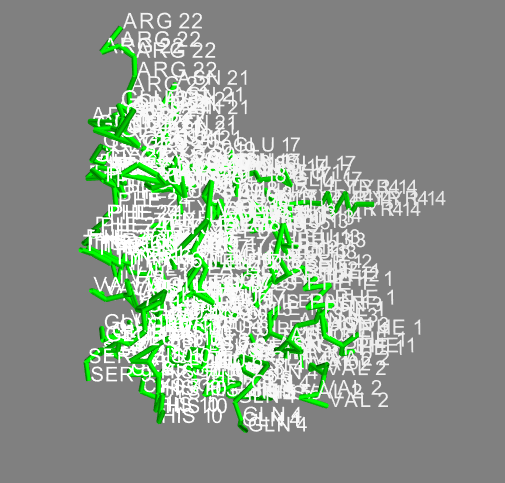
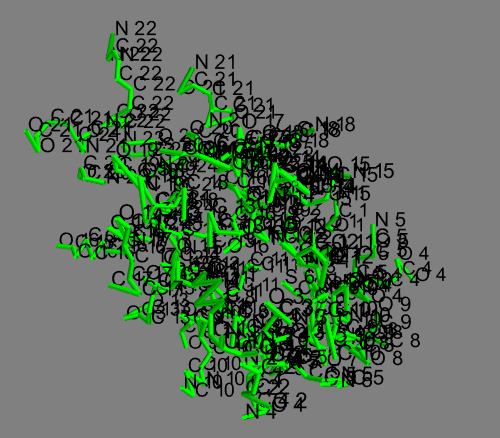
small update

diff --git a/src/firsttry.py b/src/firsttry.py
@@ -103,7 +103,7 @@ def res_names(atoms_df):
     """
     """
     for row in atoms_df.iterrows():
-        mlab.text3d(row[1][3], row[1][4], row[1][5], text = row[1][1] + " " + str(row[1][2]))
+        mlab.text3d(row[1][3], row[1][4], row[1][5], text = row[1][0] + " " + str(row[1][2]), color = (0,0,0))
 
 
 
